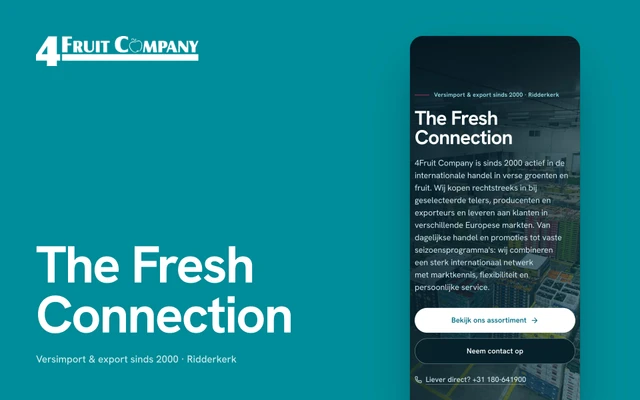
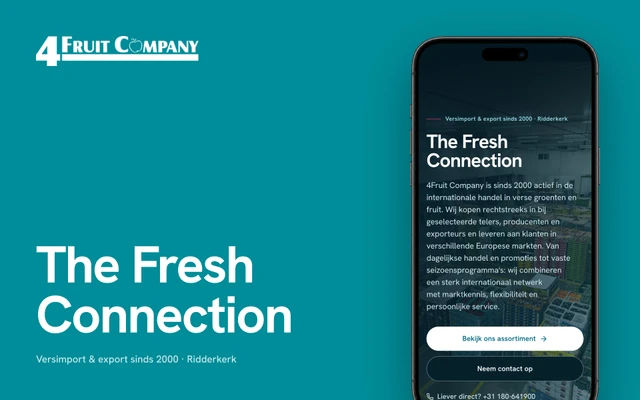
Merkplaat: mobiel scherm in een telefoonframe
Het mobiele scherm in elke merkplaat staat nu in een gegenereerde
telefoon (scripts/merkplaten/telefoon.png, scherm uitgeknipt). Een
statusbalk in de bovenkleur van de pagina houdt de camera-uitsparing
van de header af. Alle platen en WebP-varianten opnieuw gerenderd.

Changed region(s): [[0.625, 0.09, 0.9375, 1.0]]

diff --git a/docs/adr/0009-merkplaat-per-werkstuk.md b/docs/adr/0009-merkplaat-per-werkstuk.md
@@ -4,7 +4,7 @@ De strook en de case-pagina openen nu met een merkplaat: een vast raster gevuld 
 
 De reden: de opnames van hele secties lieten zien dát er een site was, maar niet van wie, en niet hoe die voelt. Een rij screenshots van hero's leest als goedkoop en uitwisselbaar, terwijl het verschil juist in het merk en de details zit. Een plaat in het merk van de klant laat dat in één beeld zien. De details laten zien dat het merk tot in de onderdelen is doorgevoerd.
 
-De plaat is een HTML-sjabloon (`scripts/merkplaat.mjs`). `scripts/capture-artefacts.mjs` rendert het na de opnames naar `public/projects/<slug>-plaat.jpg`. Zo blijft ADR-0005 staan: het merk verandert zelden, het scherm erin is elke week vers, en er is niets met de hand bij te houden. Gegevens per werkstuk staan onder `merkplaat` in `content.json`. Logo's staan in `scripts/merkplaten/`.
+De plaat is een HTML-sjabloon (`scripts/merkplaat.mjs`). `scripts/capture-artefacts.mjs` rendert het na de opnames naar `public/projects/<slug>-plaat.jpg`. Zo blijft ADR-0005 staan: het merk verandert zelden, het scherm erin is elke week vers, en er is niets met de hand bij te houden. Gegevens per werkstuk staan onder `merkplaat` in `content.json`. Logo's staan in `scripts/merkplaten/`, net als het telefoonframe (`telefoon.png`, gegenereerd, scherm uitgeknipt) waarin het mobiele scherm valt.
 
 ## Considered Options
 
